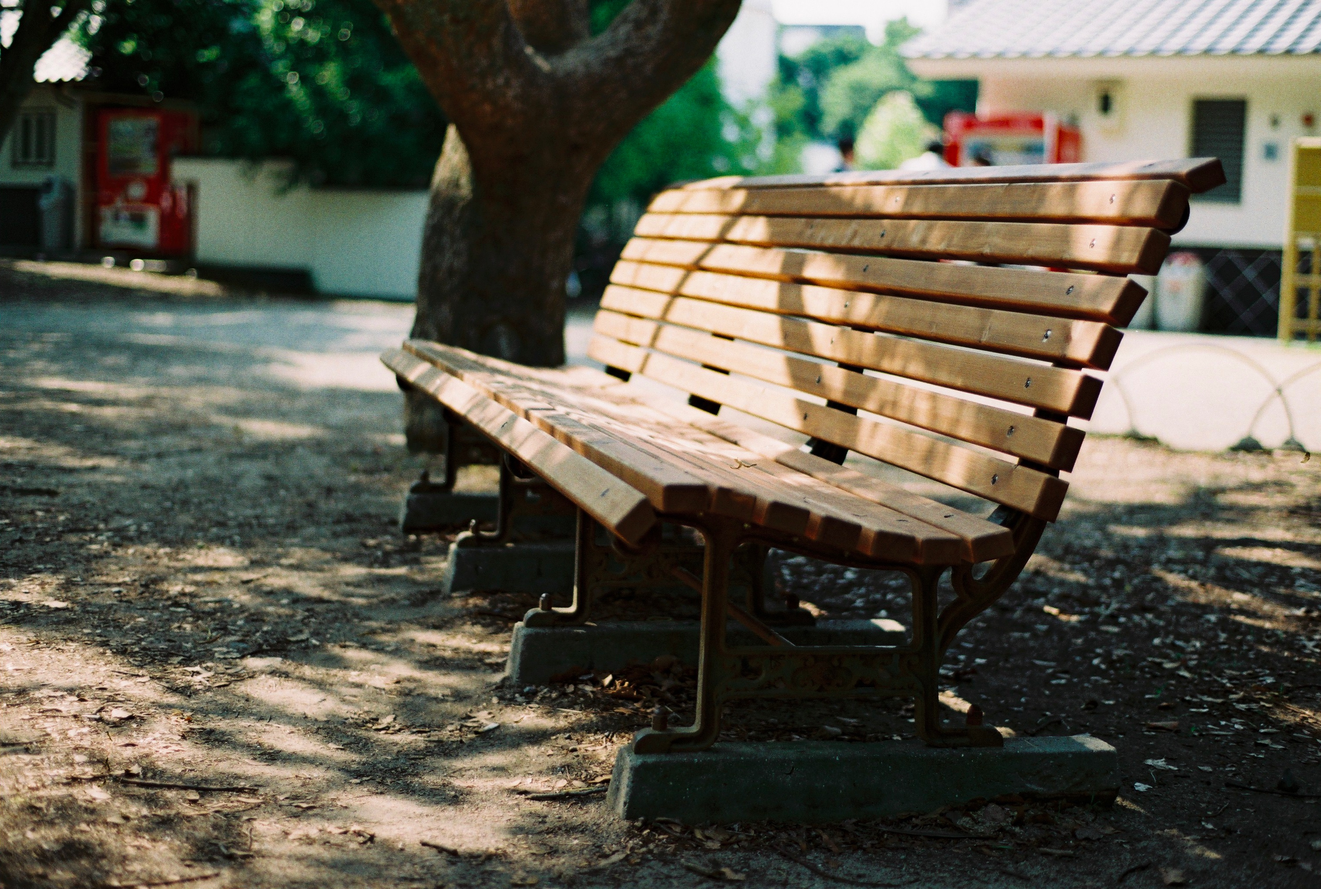
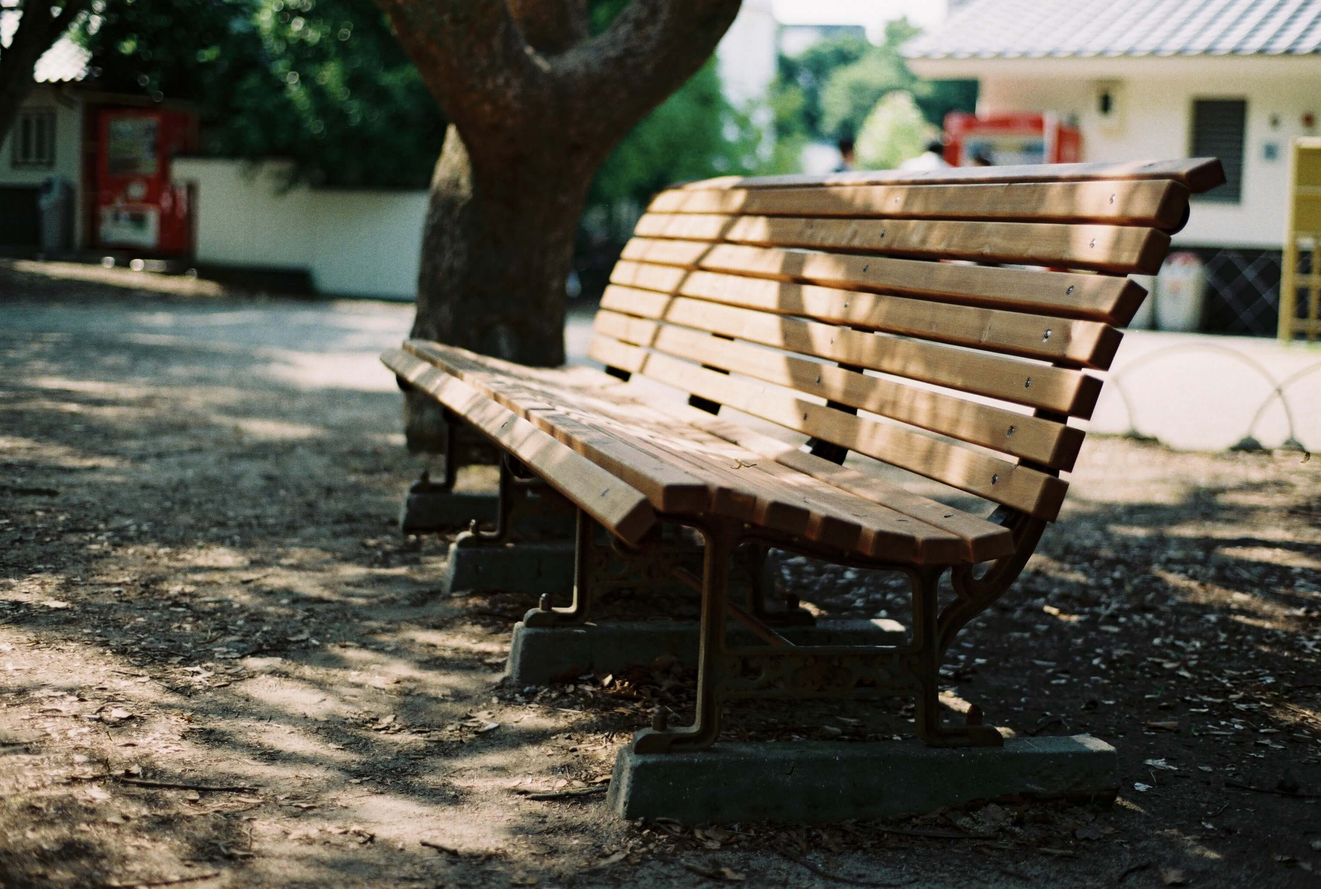
resized pictures. Other small fixes

diff --git a/src/App.css b/src/App.css
@@ -265,6 +265,11 @@ div.leaflet-top.leaflet-left {
   padding: 1rem 1rem;
 }
 
+.header-name {
+  height: 4rem;
+  padding: 0 1rem;
+}
+
 .header-title {
   margin-right: auto;
   font-size: 3rem;
@@ -661,7 +666,7 @@ div.leaflet-top.leaflet-left {
   display: flex;
   flex-direction: column;
   width: 100%;
-  margin-right: 1.5rem;
+  margin-right: 1.5vw;
 }
 
 .items-section-content {
@@ -1162,7 +1167,7 @@ div.leaflet-top.leaflet-left {
 .welcome-line {
   position: relative;
   top: 10vh;
-  padding-left: 5vw;
+  left: 5vw;
   display: flex;
   justify-content: flex-start;
 }
@@ -1189,7 +1194,7 @@ div.leaflet-top.leaflet-left {
   animation-delay: 0.5s;
   animation-iteration-count: 1;
   top: 30vh;
-  padding-left: 29vw;
+  left: 29vw;
 }
 
 .welcome-third {
@@ -1203,7 +1208,7 @@ div.leaflet-top.leaflet-left {
   animation-delay: 1s;
   animation-iteration-count: 1;
   top: 50vh;
-  padding-left: 32.5vw;
+  left: 32.5vw;
 }
 
 .welcome-fourth {

diff --git a/public/index.html b/public/index.html
@@ -7,7 +7,7 @@
     <meta name="theme-color" content="#000000" />
     <meta
       name="CurbAlert"
-      content="Find treasures wherever you are"
+      content="Find treasures wherever you are!"
     />
     <link rel="apple-touch-icon" href="%PUBLIC_URL%/logo192.png" />
     <link rel="stylesheet" href="https://use.fontawesome.com/releases/v5.3.1/css/all.css" integrity="sha384-mzrmE5qonljUremFsqc01SB46JvROS7bZs3IO2EmfFsd15uHvIt+Y8vEf7N7fWAU"

diff --git a/src/components/map.js b/src/components/map.js
@@ -79,7 +79,7 @@ export default class MapContainer extends React.Component {
 
     return (
       <div className="map-container">
-        <div className="header">
+        <div className="header-name">
           <h1 className="header-title">CurbAlert</h1>
         </div>
         <Map className="map" center={position} zoom={this.state.zoom} ref={this.bindMap}

diff --git a/src/Responsive.css b/src/Responsive.css
@@ -1,5 +1,11 @@
-@media only screen and (max-width: 800px) {
-  
+@media only screen and (max-width: 900px) {
+  .header-text {
+    font-size: 2rem;
+  }
+
+  .header-text-large {
+    font-size: 2rem;
+  }
 }
 
 @media only screen and (max-width: 600px) {
